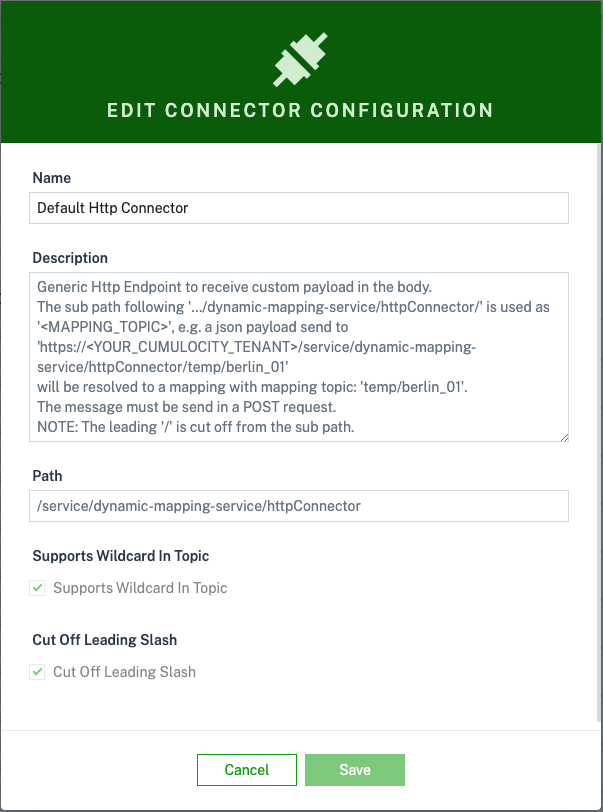
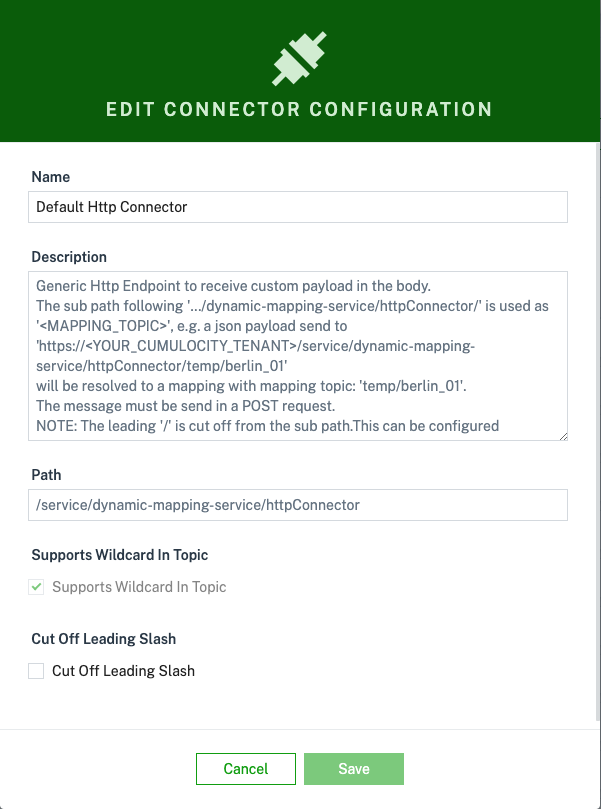
update documentation

diff --git a/dynamic-mapping-service/src/main/java/dynamic/mapping/connector/http/HttpClient.java b/dynamic-mapping-service/src/main/java/dynamic/mapping/connector/http/HttpClient.java
@@ -68,7 +68,7 @@ public class HttpClient extends AConnectorClient {
                 + "The sub path following '.../dynamic-mapping-service/httpConnector/' is used as '<MAPPING_TOPIC>', e.g. a json payload send to 'https://<YOUR_CUMULOCITY_TENANT>/service/dynamic-mapping-service/httpConnector/temp/berlin_01' \n" 
                 + "will be resolved to a mapping with mapping topic: 'temp/berlin_01'.\n"
                 + "The message must be send in a POST request.\n" 
-                + "NOTE: The leading '/' is cut off from the sub path.";
+                + "NOTE: The leading '/' is cut off from the sub path.This can be configured ";
         connectorType = ConnectorType.HTTP;
         connectorSpecification = new ConnectorSpecification(name, description, connectorType, configProps, false);
     }
@@ -87,7 +87,6 @@ public class HttpClient extends AConnectorClient {
         this.connectorIdentifier = connectorConfiguration.identifier;
         this.connectorStatus = ConnectorStatusEvent.unknown(connectorConfiguration.name,
                 connectorConfiguration.identifier);
-        // this.connectorType = connectorConfiguration.connectorType;
         this.c8yAgent = configurationRegistry.getC8yAgent();
         this.virtThreadPool = configurationRegistry.getVirtThreadPool();
         this.objectMapper = configurationRegistry.getObjectMapper();
@@ -130,7 +129,6 @@ public class HttpClient extends AConnectorClient {
         while (!successful) {
             loadConfiguration();
             try {
-
                 connectionState.setTrue();
                 log.info("Tenant {} - Connected to http endpoint {}", tenant,
                         path);
@@ -145,7 +143,6 @@ public class HttpClient extends AConnectorClient {
                 sendConnectorLifecycle();
             }
         }
-
     }
 
     @Override
